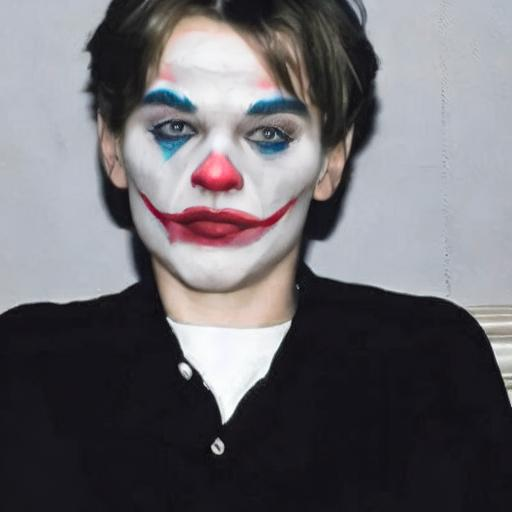
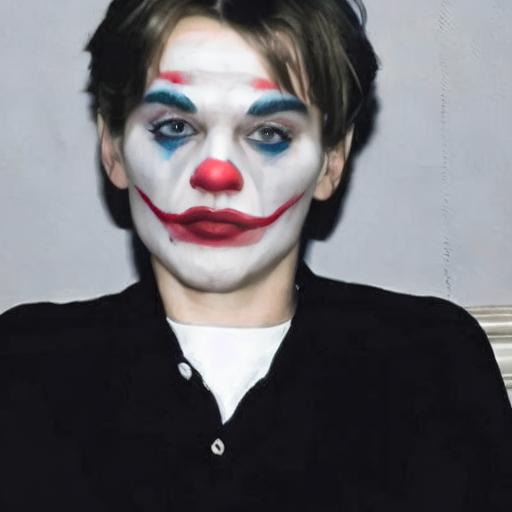
bench(server): LCM-LoRA·정체성 코사인 실측 추가, transfer_steps 기본값 10→8 (#47 #52)
LCM-LoRA(4/8 step)와 FaceNet(VGGFace2) 코사인을 실측하고 선정 표를 README에 추가.
10 step은 3.15s로 3초를 넘어 8 step(2.55s)으로 기본값 변경. EleGANt/SSAT/BeautyREC는 비상업 라이선스라 제외.

Claude-Session: https://claude.ai/code/session_01CGWaBrLbAYqAaqyoz5XUGc

diff --git a/poc/look-tryon/server-bench/bench.py b/poc/look-tryon/server-bench/bench.py
@@ -34,7 +34,7 @@ def write_rows(rows):
             writer.writerow(row)
 
 
-def bench_stable_makeup(dtype_name, steps=30):
+def bench_stable_makeup(dtype_name, steps=30, guidance=1.6, lcm=False):
     import torch
 
     sm_dir = SERVER_BENCH_DIR / "stable_makeup"
@@ -80,7 +80,13 @@ def bench_stable_makeup(dtype_name, steps=30):
         controlnet=[id_encoder, pose_encoder],
         torch_dtype=dtype,
     ).to("cuda")
-    pipe.scheduler = DDIMScheduler.from_config(pipe.scheduler.config)
+    if lcm:
+        # LCM-LoRA: SD1.5용 few-step 증류 LoRA + LCMScheduler (벤더링 diffusers 0.23.1이 지원)
+        from diffusers import LCMScheduler
+        pipe.load_lora_weights("latent-consistency/lcm-lora-sdv1-5")
+        pipe.scheduler = LCMScheduler.from_config(pipe.scheduler.config)
+    else:
+        pipe.scheduler = DDIMScheduler.from_config(pipe.scheduler.config)
     torch.cuda.synchronize()
     load_time = time.perf_counter() - t0
 
@@ -96,8 +102,11 @@ def bench_stable_makeup(dtype_name, steps=30):
     makeup_image = load_image(str(sm_dir / "test_imgs/makeup/1.jpg")).resize((512, 512))
     pose_image = get_draw(id_image, size=512)
 
+    candidate = "lcm_lora" if lcm else "stable_makeup"
     variant_label = f"{dtype_name}_{steps}steps"
-    rows = [{"candidate": "stable_makeup", "variant": variant_label, "run_number": 0, "phase": "load",
+    if lcm or guidance != 1.6:
+        variant_label += f"_g{guidance}"
+    rows = [{"candidate": candidate, "variant": variant_label, "run_number": 0, "phase": "load",
              "time_sec": round(load_time, 3), "vram_peak_mb": "", "notes": "model load + weights to GPU"}]
 
     result_img = None
@@ -106,7 +115,7 @@ def bench_stable_makeup(dtype_name, steps=30):
         torch.cuda.synchronize()
         t0 = time.perf_counter()
         result_img = makeup_encoder.generate(
-            id_image=[id_image, pose_image], makeup_image=makeup_image, pipe=pipe, guidance_scale=1.6,
+            id_image=[id_image, pose_image], makeup_image=makeup_image, pipe=pipe, guidance_scale=guidance,
             num_inference_steps=steps,
         )
         torch.cuda.synchronize()
@@ -116,10 +125,16 @@ def bench_stable_makeup(dtype_name, steps=30):
             print(f"[warmup] {dt:.3f}s  vram={vram:.0f}MB")
             continue
         print(f"[run {run}] {dt:.3f}s  vram={vram:.0f}MB")
-        rows.append({"candidate": "stable_makeup", "variant": variant_label, "run_number": run, "phase": "infer",
+        rows.append({"candidate": candidate, "variant": variant_label, "run_number": run, "phase": "infer",
                       "time_sec": round(dt, 3), "vram_peak_mb": round(vram, 1), "notes": ""})
 
-    result_img.save(RESULTS_DIR / f"stable_makeup_{dtype_name}_{steps}steps_sample.jpg")
+    sample_name = f"{candidate}_{variant_label}_sample.jpg" if lcm or guidance != 1.6 else f"stable_makeup_{dtype_name}_{steps}steps_sample.jpg"
+    result_img.save(RESULTS_DIR / sample_name)
+    from identity import face_cosine
+    cos = face_cosine(id_image, result_img)
+    print(f"[identity] face_cosine(source, result)={cos}")
+    rows.append({"candidate": candidate, "variant": variant_label, "run_number": "-", "phase": "identity",
+                 "time_sec": "", "vram_peak_mb": "", "notes": f"facenet_vggface2_cos={cos}"})
     id_image.save(RESULTS_DIR / "stable_makeup_source.jpg")
     makeup_image.save(RESULTS_DIR / "stable_makeup_reference.jpg")
     write_rows(rows)
@@ -248,19 +263,31 @@ def bench_shmt(variant, ddim_steps=50):
 
     result_img.save(RESULTS_DIR / f"shmt_{variant_label}_sample.jpg")
     from torchvision.transforms.functional import to_pil_image
-    to_pil_image(torch.clamp((source_image[0] + 1.0) / 2.0, 0.0, 1.0).cpu()).save(RESULTS_DIR / "shmt_source.jpg")
+    source_pil = to_pil_image(torch.clamp((source_image[0] + 1.0) / 2.0, 0.0, 1.0).cpu())
+    source_pil.save(RESULTS_DIR / "shmt_source.jpg")
+    try:
+        from identity import face_cosine
+    except ImportError:  # shmt env에 facenet-pytorch가 없으면 코사인 측정 생략
+        face_cosine = None
+    if face_cosine is not None:
+        cos = face_cosine(source_pil, result_img)
+        rows.append({"candidate": "shmt", "variant": variant_label, "run_number": "-", "phase": "identity",
+                     "time_sec": "", "vram_peak_mb": "", "notes": f"facenet_vggface2_cos={cos}"})
     to_pil_image(torch.clamp((ref_image[0] + 1.0) / 2.0, 0.0, 1.0).cpu()).save(RESULTS_DIR / "shmt_reference.jpg")
     write_rows(rows)
 
 
 if __name__ == "__main__":
     ap = argparse.ArgumentParser()
-    ap.add_argument("--candidate", required=True, choices=["stable_makeup", "shmt"])
+    ap.add_argument("--candidate", required=True, choices=["stable_makeup", "shmt", "lcm_lora"])
     ap.add_argument("--variant", default=None, help="stable_makeup: fp32|fp16 (default fp32). shmt: h0|h4 (default h0)")
     ap.add_argument("--steps", type=int, default=None, help="DDIM steps (default: 30 for stable_makeup, 50 for shmt)")
+    ap.add_argument("--guidance", type=float, default=1.6, help="stable_makeup/lcm_lora guidance_scale (default 1.6)")
     args = ap.parse_args()
 
     if args.candidate == "stable_makeup":
-        bench_stable_makeup(args.variant or "fp32", args.steps or 30)
+        bench_stable_makeup(args.variant or "fp32", args.steps or 30, args.guidance)
+    elif args.candidate == "lcm_lora":
+        bench_stable_makeup(args.variant or "fp16", args.steps or 4, args.guidance, lcm=True)
     else:
         bench_shmt(args.variant or "h0", args.steps or 50)

diff --git a/poc/look-tryon/server-bench/identity.py b/poc/look-tryon/server-bench/identity.py
@@ -1,0 +1,38 @@
+"""원본 vs 결과 사진의 얼굴 임베딩 코사인 유사도 (벤치 전용).
+
+facenet-pytorch(MIT, VGGFace2 사전학습 InceptionResnetV1)로 상업 사용이 가능하다.
+insightface buffalo_l(ArcFace)은 연구용 라이선스라 제품에 못 쓰므로 쓰지 않는다.
+따라서 이 값은 "ArcFace 코사인"이 아니라 "FaceNet(VGGFace2) 코사인"이며, 절대값을
+다른 임베딩 모델과 직접 비교할 수 없다. 후보 간 상대 비교용이다.
+"""
+
+from __future__ import annotations
+
+import torch
+from PIL import Image
+
+_models: tuple | None = None
+
+
+def _load():
+    global _models
+    if _models is None:
+        from facenet_pytorch import InceptionResnetV1, MTCNN
+
+        mtcnn = MTCNN(image_size=160, margin=0, device="cuda")
+        resnet = InceptionResnetV1(pretrained="vggface2").eval().to("cuda")
+        _models = (mtcnn, resnet)
+    return _models
+
+
+def face_cosine(img_a: Image.Image, img_b: Image.Image) -> float | None:
+    """두 이미지의 얼굴 임베딩 코사인 유사도. 얼굴을 못 찾으면 None."""
+    mtcnn, resnet = _load()
+    face_a = mtcnn(img_a.convert("RGB"))
+    face_b = mtcnn(img_b.convert("RGB"))
+    if face_a is None or face_b is None:
+        return None
+    with torch.no_grad():
+        emb_a = resnet(face_a.unsqueeze(0).to("cuda"))
+        emb_b = resnet(face_b.unsqueeze(0).to("cuda"))
+    return torch.nn.functional.cosine_similarity(emb_a, emb_b).item()

diff --git a/server/app/config.py b/server/app/config.py
@@ -57,8 +57,8 @@ class Settings:
     result_dir: str = _env(
         "RESULT_DIR", os.path.join(os.path.abspath(os.sep), "tmp", "danghwaeung", "results")
     )
-    # 벤치마크 결론(server-bench/README.md): fp16 + 10 step = 3.15초, 3초 목표 안
-    transfer_steps: int = int(_env("TRANSFER_STEPS", "10"))
+    # 벤치마크 결론(server-bench/README.md): fp16 + DDIM 8 step = 2.55초 (10 step은 3.14초로 3초 초과)
+    transfer_steps: int = int(_env("TRANSFER_STEPS", "8"))
     transfer_guidance: float = float(_env("TRANSFER_GUIDANCE", "1.6"))
 
 

diff --git a/poc/look-tryon/server-bench/model_server.py b/poc/look-tryon/server-bench/model_server.py
@@ -94,7 +94,7 @@ def _get_pose(source_path: str, id_image: Image.Image) -> Image.Image:
 class InferRequest(BaseModel):
     source_path: str
     ref_path: str
-    steps: int = 10
+    steps: int = 8
     guidance_scale: float = 1.6
 
 

diff --git a/poc/look-tryon/server-bench/README.md b/poc/look-tryon/server-bench/README.md
@@ -36,21 +36,50 @@
 
 - **Stable-Makeup**: 저장소 번들 샘플(인물 사진 + 조커 페이스페인팅 참조)로 테스트. fp32와 fp16+8step 결과가 육안상 거의 구분 안 될 만큼 동일 — 헤어스타일·얼굴형·표정 등 정체성이 원본과 그대로 유지되고, 극단적인 페이스페인팅 스타일도 색상·형태가 정확히 전이됨. step을 8까지 줄여도 눈에 띄는 품질 저하는 없었다(다만 매우 heavy한 이 예시 하나만으로 일반화하기는 이름).
 - **SHMT**: 저장소 번들 샘플(여성 인물 + 블루 아이섀도우·레드 립 참조)로 테스트. h0/h4 모두 정체성이 잘 유지되고, 아이섀도우 색상·립 컬러가 자연스럽게 전이됨. h4(recommended)가 h0보다 경계 블렌딩이 약간 더 매끄러움. 256×256 해상도라 Stable-Makeup(512×512)보다 디테일은 떨어짐 — 실제 서비스에 쓰려면 업스케일 단계가 별도로 필요.
-- 정량적 얼굴 임베딩(ArcFace) 코사인 유사도는 시간 관계상 측정하지 못했다 — 육안 평가로 대체.
+- 정량적 얼굴 임베딩 코사인 유사도는 아래 "선정 표"에 있다(FaceNet/VGGFace2, ArcFace 아님).
+
+## 선정 표 (S-1 확정, #47 #52)
+
+같은 입력(저장소 번들 샘플 1쌍)·같은 머신(RTX 3060)·5회 반복 평균. "정체성 코사인"은 **원본 사진 vs 결과 사진**의 얼굴 임베딩 코사인(`identity.py`, facenet-pytorch MIT + VGGFace2 사전학습 InceptionResnetV1). 상업 라이선스 문제로 insightface(ArcFace buffalo_l, 연구용)를 쓰지 않았으므로 "ArcFace 코사인"이 아니라 FaceNet 코사인이다 — 절대값이 아니라 후보 간 상대 비교용. 코사인은 **변형당 1회(시드 미고정) 측정**이라 잡음이 있다(예: 8 step 0.671 vs 10 step 0.605 차이가 실제 품질 차이인지 표본 잡음인지 이 데이터로는 구분 못 함).
+
+| 후보 | 설정 | 라이선스 | 추론(평균) | 3초 안? | VRAM | 정체성 코사인 | 판정 |
+|---|---|---|---:|:---:|---:|---:|---|
+| Stable-Makeup | fp16, DDIM 8 step, g=1.6 | Apache-2.0 | 2.55s | O | 5.29GB | **0.671** | **선정** |
+| Stable-Makeup | fp16, DDIM 10 step, g=1.6 | Apache-2.0 | 3.15s | X (3.15s) | 5.29GB | 0.605 | 예산 초과(기존 Task 1 기본값) |
+| Stable-Makeup | fp16, DDIM 15 step, g=1.6 | Apache-2.0 | 4.60s | X | 5.29GB | 0.640 | 예산 초과 |
+| Stable-Makeup + LCM-LoRA | fp16, LCM 4 step, g=1.5 | Apache-2.0 + OpenRAIL++(LoRA) | 1.67s | O | 5.55GB | 0.594 | 후보, 코사인 낮음 |
+| Stable-Makeup + LCM-LoRA | fp16, LCM 4 step, g=2.0 | 동일 | 1.66s | O | 5.55GB | 0.551 | 후보, 코사인 가장 낮음 |
+| Stable-Makeup + LCM-LoRA | fp16, LCM 8 step, g=1.5 | 동일 | 3.10s | X (3.10s) | 5.55GB | 0.651 | 예산 초과 |
+| SHMT h4 | 25 step | CC BY-NC-SA | 1.78s | O | 7.40GB | 미측정 (shmt env에 facenet-pytorch 미설치) | 제외: 비상업 |
+| EleGANt | - | CC BY-NC-SA 4.0 (LICENSE 확인) | 미측정 | - | - | - | 제외: 비상업 |
+| SSAT | - | CC BY-NC-SA 4.0 (LICENSE.txt 확인) | 미측정 | - | - | - | 제외: 비상업 |
+| BeautyREC | - | "non-commercial purpose"만 허용하는 BSD 변형 (License 확인) | 미측정 | - | - | - | 제외: 비상업 |
+
+- LCM-LoRA는 `latent-consistency/lcm-lora-sdv1-5` + `LCMScheduler`를 벤더링 diffusers 0.23.1에 그대로 적용해 동작했다(`peft==0.6.2` 필요 — 벤더링 코드가 `peft<=0.6.2`를 요구). **guidance=1.0은 사용 불가**: CFG가 꺼지면 Stable-Makeup의 커스텀 attention이 배치 2배를 전제해서 `RuntimeError: The size of tensor a (2048) must match the size of tensor b (4096)`로 죽는다. 그래서 g=1.5, 2.0만 측정. LCM-LoRA 라이선스(OpenRAIL++)의 상업 사용 조건은 별도 법무 확인 필요(본 벤치에서는 검토하지 않음).
+- 이번 실행에서 같은 설정을 반복 측정한 행이 있다(예: fp16_10steps, fp16_8steps, fp16_15steps는 CSV에 이전 라운드 행과 이번 재측정 행이 함께 있음). 위 표의 시간은 해당 변형의 모든 infer 행 평균이며 코사인은 이번 재측정 1회 값이다.
+- 경량 GAN 3종은 라이선스 확인이 이슈 본문에서 "먼저"였고 전부 비상업이라 가중치를 받거나 실측하지 않았다.
+
+### 선정 결과
+
+**Stable-Makeup fp16 + DDIM 8 step + guidance 1.6** (추론 2.55s, VRAM 5.29GB, 코사인 0.671).
+
+근거: (1) 3초 예산 안에서 유일한 Apache-2.0 후보 중 코사인이 가장 높음. LCM-LoRA 4 step은 더 빠르지만(1.67s) 코사인이 0.55~0.59로 낮고, 8 step은 3.10s로 예산을 넘는다. (2) 육안 평가(색 전이만 본 주관 판단): 8/10 step DDIM과 LCM 4/8 step 모두 파랑 눈썹 색·빨간 코·입술 색이 잘 옮겨졌고 얼굴형·머리·옷 등 정체성 유지도 비슷하다. LCM 쪽이 약간 더 대비가 강하고 질감이 거칠다. 색 반영 면에서 결정적 차이는 없었다. (3) 기존 Task 1 기본값 10 step은 실측 3.15s로 3초를 넘어서, `server/app/config.py`의 `transfer_steps` 기본값을 10 → 8로 바꿨다(guidance 1.6 유지). `model_server.py`의 요청 기본 steps도 8로 맞췄다.
+
+한계: 입력이 조커 페이스페인팅이라는 극단적 예시 1쌍뿐이고 코사인은 1회 측정이다. 자연스러운 데일리 메이크업 룩으로 여러 장 재측정해야 8 step vs 10 step vs LCM 4 step 우열을 신뢰할 수 있다.
 
 ## 결론
 
 **두 후보 모두 최적화 없이는 3초를 넘기지만, 간단한 최적화만으로 3초 안쪽에 들어온다.**
 
-- Stable-Makeup(기본 fp32/30step)은 21.8초로 목표의 7배, fp16으로 바꿔도 9초로 여전히 5초 여유 기준도 못 맞춘다. 하지만 fp16 + step을 30→10으로 줄이면 3.15초, 8step이면 2.55초로 목표 안에 든다. Apache-2.0이라 상업 사용에는 문제 없음.
+- Stable-Makeup(기본 fp32/30step)은 21.8초로 목표의 7배, fp16으로 바꿔도 9초로 여전히 5초 여유 기준도 못 맞춘다. 하지만 fp16 + step을 30→10으로 줄이면 3.15초로 3초를 살짝 넘고, 8step이면 2.55초로 목표 안에 든다. Apache-2.0이라 상업 사용에는 문제 없음.
 - SHMT는 **기본 설정(50 step)만으로 이미 3.4~3.5초**로 거의 목표치이고, step을 25로 줄이면 1.8초까지 내려간다. 다만 CC BY-NC-SA라 이 모델 자체는 제품에 못 쓴다 — "이 규모의 latent diffusion + 256×256 해상도라면 3060에서 3초는 충분히 가능하다"는 기술적 참고 데이터로만 활용.
-- **가장 3초 목표에 가까운 실사용 가능 후보는 Stable-Makeup(fp16 + 8~10 step)**. VRAM도 5.3GB로 3060 한도 안에서 여유 있음.
+- **가장 3초 목표에 가까운 실사용 가능 후보는 Stable-Makeup(fp16 + 8 step)**. VRAM도 5.3GB로 3060 한도 안에서 여유 있음.
 
 ### 최적화 방향 메모 (다음 라운드 참고)
 
 1. **fp16/bf16 추론**: Stable-Makeup에서 가장 큰 효과(21.8s → 9.0s, 약 2.4배). 필수로 적용.
 2. **DDIM step 축소**: 30→8~10 step으로 추가 3~4배. 이번 벤치마크에서는 heavy makeup 예시 1장 기준 품질 저하가 육안상 크지 않았지만, 다양한 룩(특히 미세한 톤 변화 위주의 자연스러운 화장)으로 더 검증 필요 — 너무 줄이면 아티팩트 가능.
-3. **few-step 샘플러 / LCM-LoRA**: 시도하지 않음. SD1.5 기반인 Stable-Makeup은 LCM-LoRA(4-8 step)나 DPM-Solver++ 적용 여지가 있어 다음 라운드에서 시도해볼 만함 — 현재도 DDIM 8-10 step으로 목표를 만족하므로 우선순위는 낮음.
+3. **few-step 샘플러 / LCM-LoRA**: 시도함(선정 표 참조). 4 step 1.67s로 가장 빠르지만 정체성 코사인이 DDIM 8 step보다 낮아 채택하지 않음. DPM-Solver++는 시도하지 않음.
 4. **해상도 축소**: 시도하지 않음(두 모델 다 기본 해상도로만 테스트). SHMT는 이미 256×256이라 축소 여지가 적고, Stable-Makeup은 512×512→384 등으로 추가 단축 가능성 있으나 fp16+step 축소만으로 이미 목표 달성해서 우선순위 낮음.
 5. **랜드마크/얼굴구조 추출(SPIGA) 캐싱**: Stable-Makeup은 사용자 사진마다 SPIGA 랜드마크 검출을 1회 수행하는데(위 타이밍에는 포함 안 됨, 모델 로드 후 얼굴 구조 이미지 1회 생성은 벤치마크 루프 밖에서 계산), 같은 사용자 사진에 여러 룩을 얹을 때는 이 결과를 재사용하면 룩당 비용을 더 줄일 수 있음(화면 1→2 흐름에서 실제로 유효한 최적화).
 
@@ -101,8 +130,10 @@ pip install "gradio>=5.0,<6.0" "huggingface_hub==0.26.2" "pydantic==2.9.2" "fast
 - Gradio 3.50.2(레포 원본 `gradio_demo_kps.py`가 쓰는 버전)는 최신 fastapi/starlette와 충돌해서 그대로는 못 씀. Gradio 4.x도 `gradio_client`가 최신 pydantic(2.11+)의 JSON 스키마 표현과 안 맞아 `TypeError: argument of type 'bool' is not iterable`로 깨짐 → **pydantic을 2.9.2로 내려서 해결** (gradio 5.14.0 기준 확인됨). 최신 gradio(6.x)는 `huggingface_hub>=1.0`을 강제해서 위 벤더링 diffusers 문제와 충돌하므로 5.x 대에 고정.
 
 ```bash
-conda run -n makeup-bench-sm python bench.py --candidate stable_makeup --variant fp16 --steps 10
+conda run -n makeup-bench-sm python bench.py --candidate stable_makeup --variant fp16 --steps 8
+conda run -n makeup-bench-sm python bench.py --candidate lcm_lora --steps 4 --guidance 1.5
 ```
+정체성 코사인·LCM-LoRA용 추가 설치: `pip install facenet-pytorch --no-deps`, `pip install peft==0.6.2 --no-deps`(+`pyyaml`) — torch 2.0.1을 건드리지 않도록 `--no-deps`.
 (`SD15_SNAPSHOT` 환경변수에 위에서 받은 스냅샷 경로를 지정해야 함)
 
 ### SHMT
@@ -138,5 +169,6 @@ server-bench/
   shmt/             # git clone (gitignored, 로컬에만 존재)
   results/          # 샘플 이미지 + results.csv (커밋됨)
   bench.py          # 측정 하네스
+  identity.py       # 얼굴 임베딩 코사인(facenet-pytorch)
   README.md         # 이 파일
 ```
